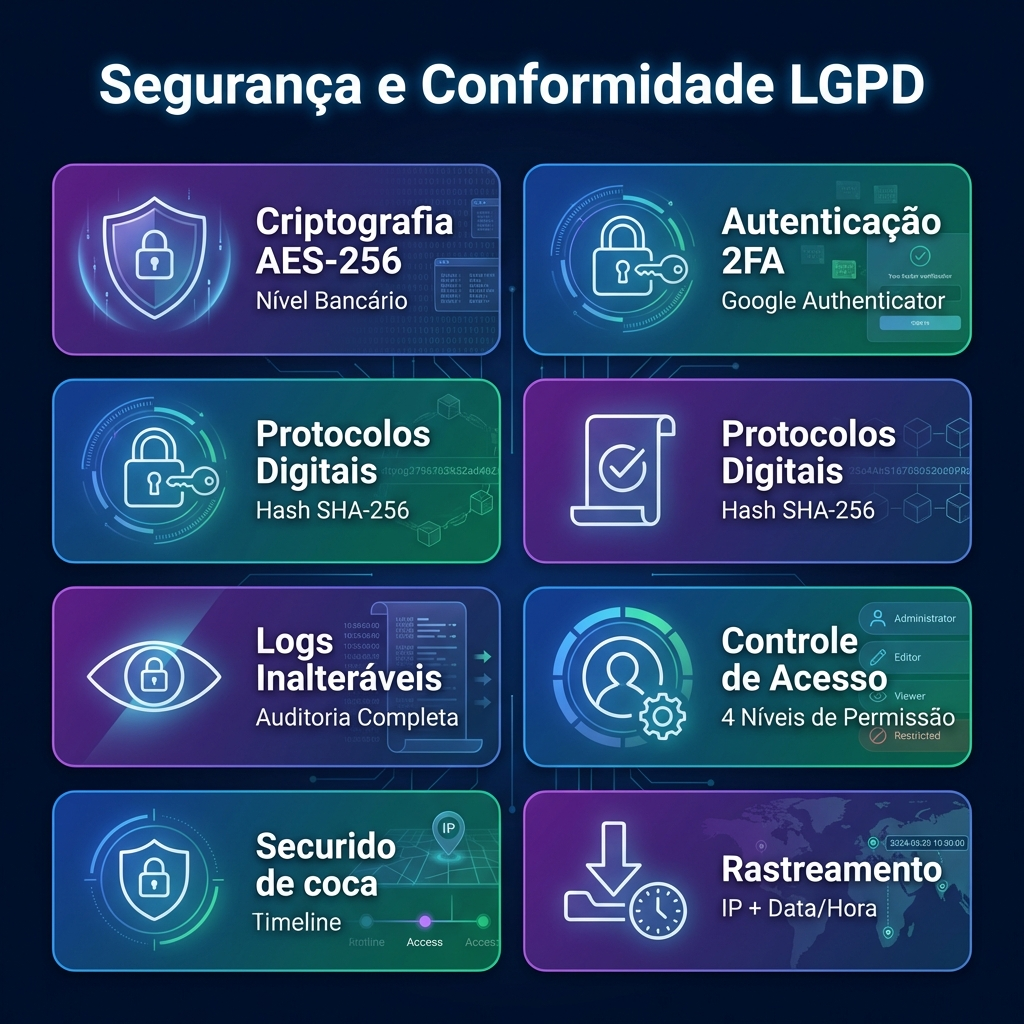
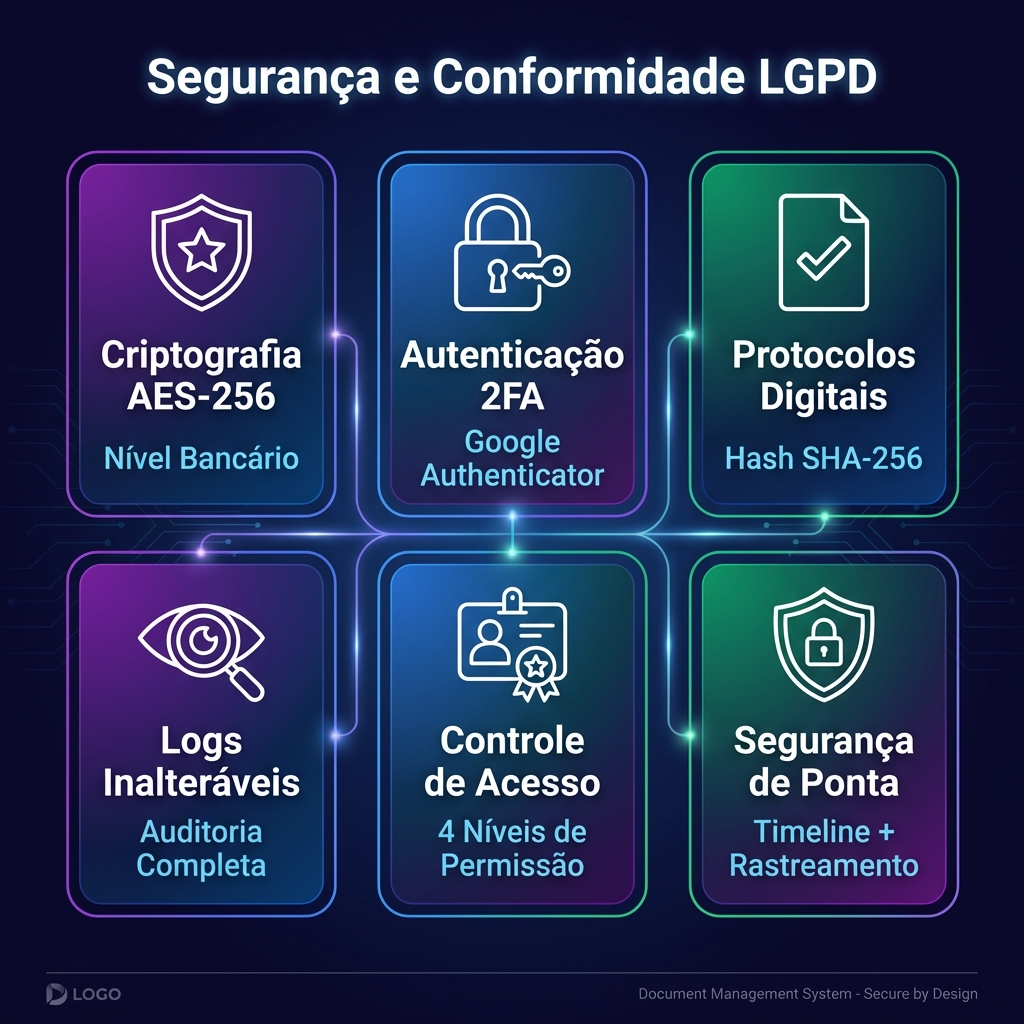
fix: corrigir português na imagem de segurança

diff --git a/README.md b/README.md
@@ -2,7 +2,8 @@
 
 > Sistema SaaS para automação completa da distribuição de documentos entre escritório de contabilidade e 500+ empresas clientes, com IA e conformidade LGPD.
 
-[![Next.js](https://img.shields.io/badge/Next.js-15-black?logo=next.js)](https://nextjs.org/)
+[![Next.js](https://img.shields.io/badge/Next.js-14-black?logo=next.js)](https://nextjs.org/)
+[![React](https://img.shields.io/badge/React-18-61DAFB?logo=react)](https://react.dev/)
 [![Node.js](https://img.shields.io/badge/Node.js-20-green?logo=node.js)](https://nodejs.org/)
 [![TypeScript](https://img.shields.io/badge/TypeScript-5-blue?logo=typescript)](https://www.typescriptlang.org/)
 [![Azure](https://img.shields.io/badge/Azure-AI-0078D4?logo=microsoft-azure)](https://azure.microsoft.com/)
@@ -33,6 +34,20 @@ Sistema que **elimina 40 horas/semana** de trabalho manual através de:
 3. **Blob Storage** → Armazena arquivo criptografado (AES-256)
 4. **PostgreSQL** → Salva metadados e índices
 5. **Portal Web** → Cliente acessa com link seguro
+
+### Diagrama do Fluxo
+
+```mermaid
+graph TD
+    A[📂 Pasta Local Contabilidade] -->|Agente Monitoramento| B(☁ Azure Blob Storage)
+    B -->|Trigger Automático| C{🧠 Azure AI OCR}
+    C -->|Extração Dados| D[🔍 Identifica CNPJ e Guia]
+    D -->|Sucesso| E[🗄 Banco de Dados SQL]
+    D -->|Arquivo PDF| F[📂 Pasta do Cliente no Portal]
+    E -->|Notificação| G[📱 WhatsApp/Email Cliente]
+    H[👤 Cliente] -->|Login 2FA| I[💻 Portal Web]
+    I -->|Download| F
+```
 
 ---
 
@@ -77,7 +92,7 @@ Sistema que **elimina 40 horas/semana** de trabalho manual através de:
 | 📈 **Escalável** | Suporta 500+ empresas sem degradação |
 | 🔒 **Seguro** | Mesma infraestrutura usada por bancos |
 | 📊 **Métricas** | Dashboard com estatísticas em tempo real |
-| 💰 **ROI 1.500%** | Economia de 160h/mês × $20/hora = $3.200/mês |
+| 💰 **ROI 1.500%** | Economia de 160h/mês × R$30/hora = R$4.800/mês |
 
 ---
 
@@ -171,7 +186,7 @@ portal-documentos-contabeis/
 - **JWT** + Speakeasy (2FA)
 
 ### Frontend
-- **Next.js 15** + React 19
+- **Next.js 14** + React 18
 - **TypeScript**
 - **TailwindCSS** (dark theme)
 - **Zustand** (state)
@@ -214,17 +229,17 @@ portal-documentos-contabeis/
 
 | Serviço | Valor |
 |---------|-------|
-| App Service | $50-100 |
-| PostgreSQL | $30-50 |
-| Blob Storage (100GB) | $2-5 |
-| Azure AI (OCR) | $1.50/1000 páginas |
-| **Total** | **$100-200/mês** |
+| App Service | R$ 300-600 |
+| PostgreSQL | R$ 180-300 |
+| Blob Storage (100GB) | R$ 12-30 |
+| Azure AI (OCR) | R$ 9,00/1000 páginas |
+| **Total** | **R$ 600-1.200/mês** |
 
 ### Retorno sobre Investimento
 
 - **Economia de Tempo:** 160h/mês
-- **Valor/Hora:** $20
-- **Economia Mensal:** $3.200
+- **Valor/Hora:** R$ 30,00
+- **Economia Mensal:** R$ 4.800,00
 - **ROI:** **1.500%** 📈
 
 ---
